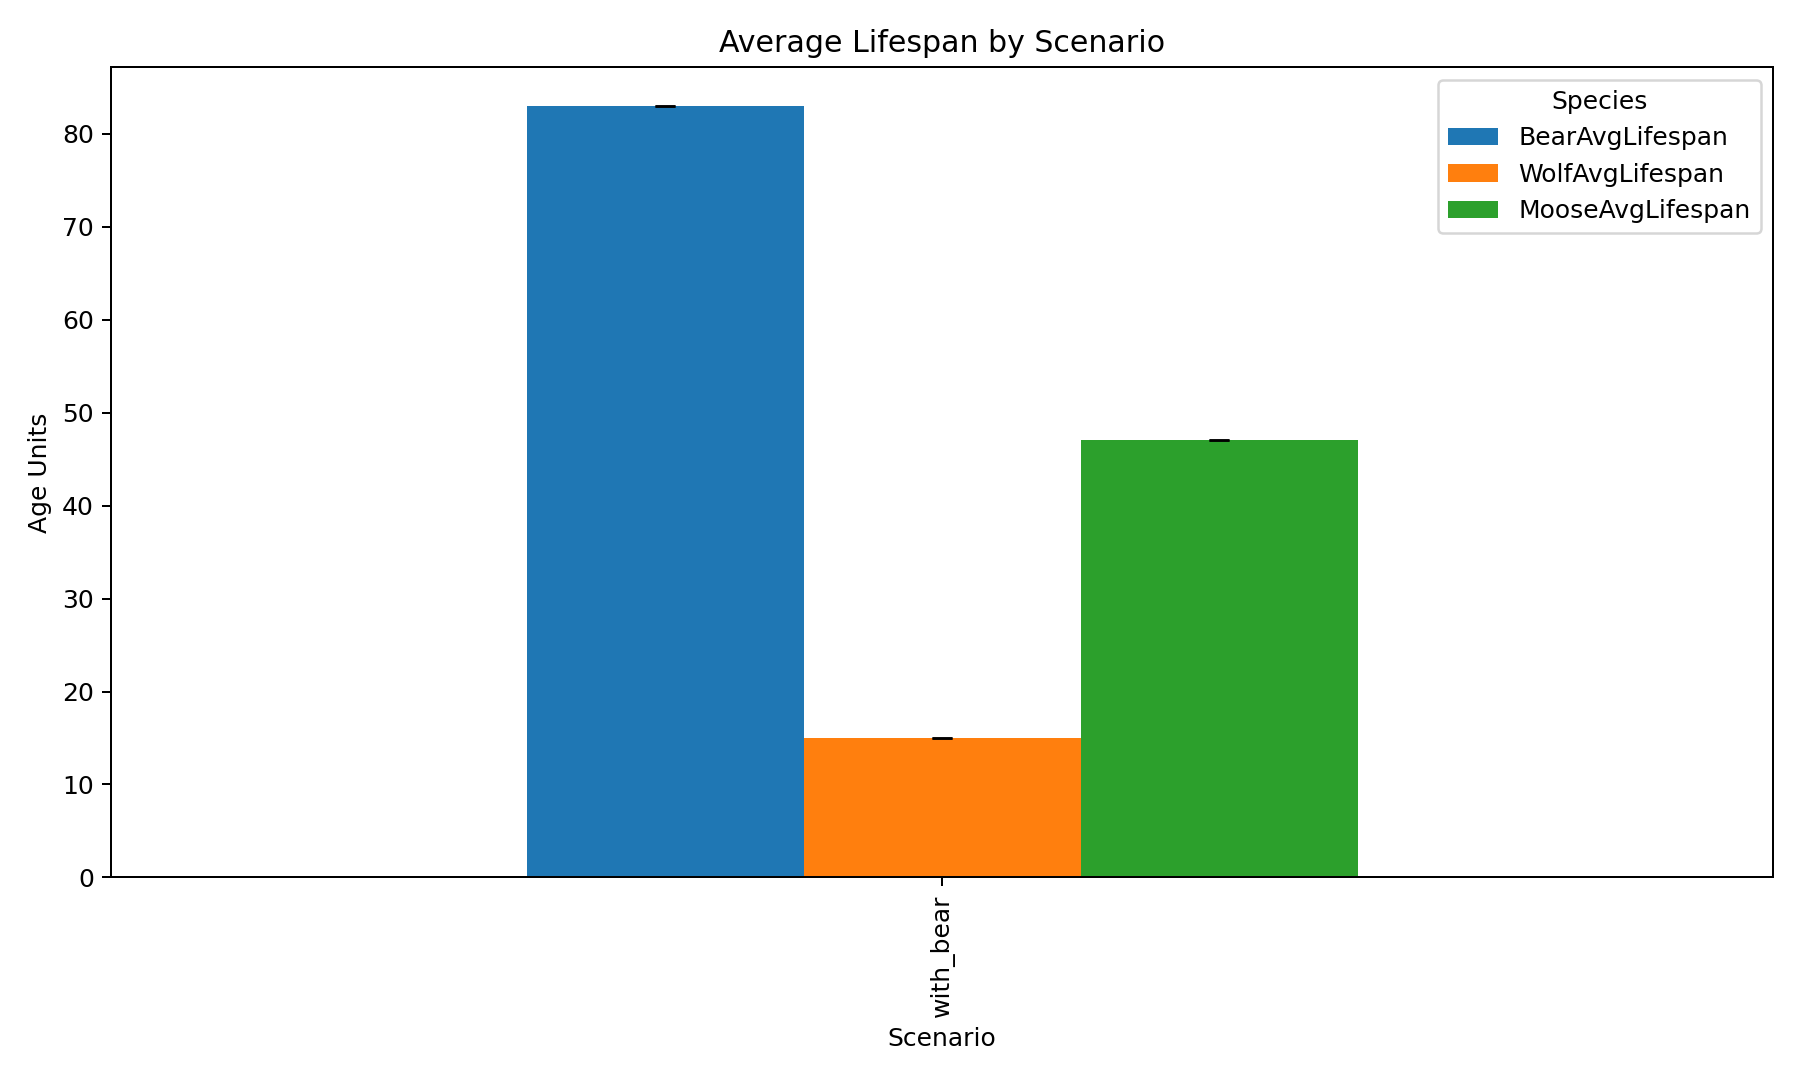
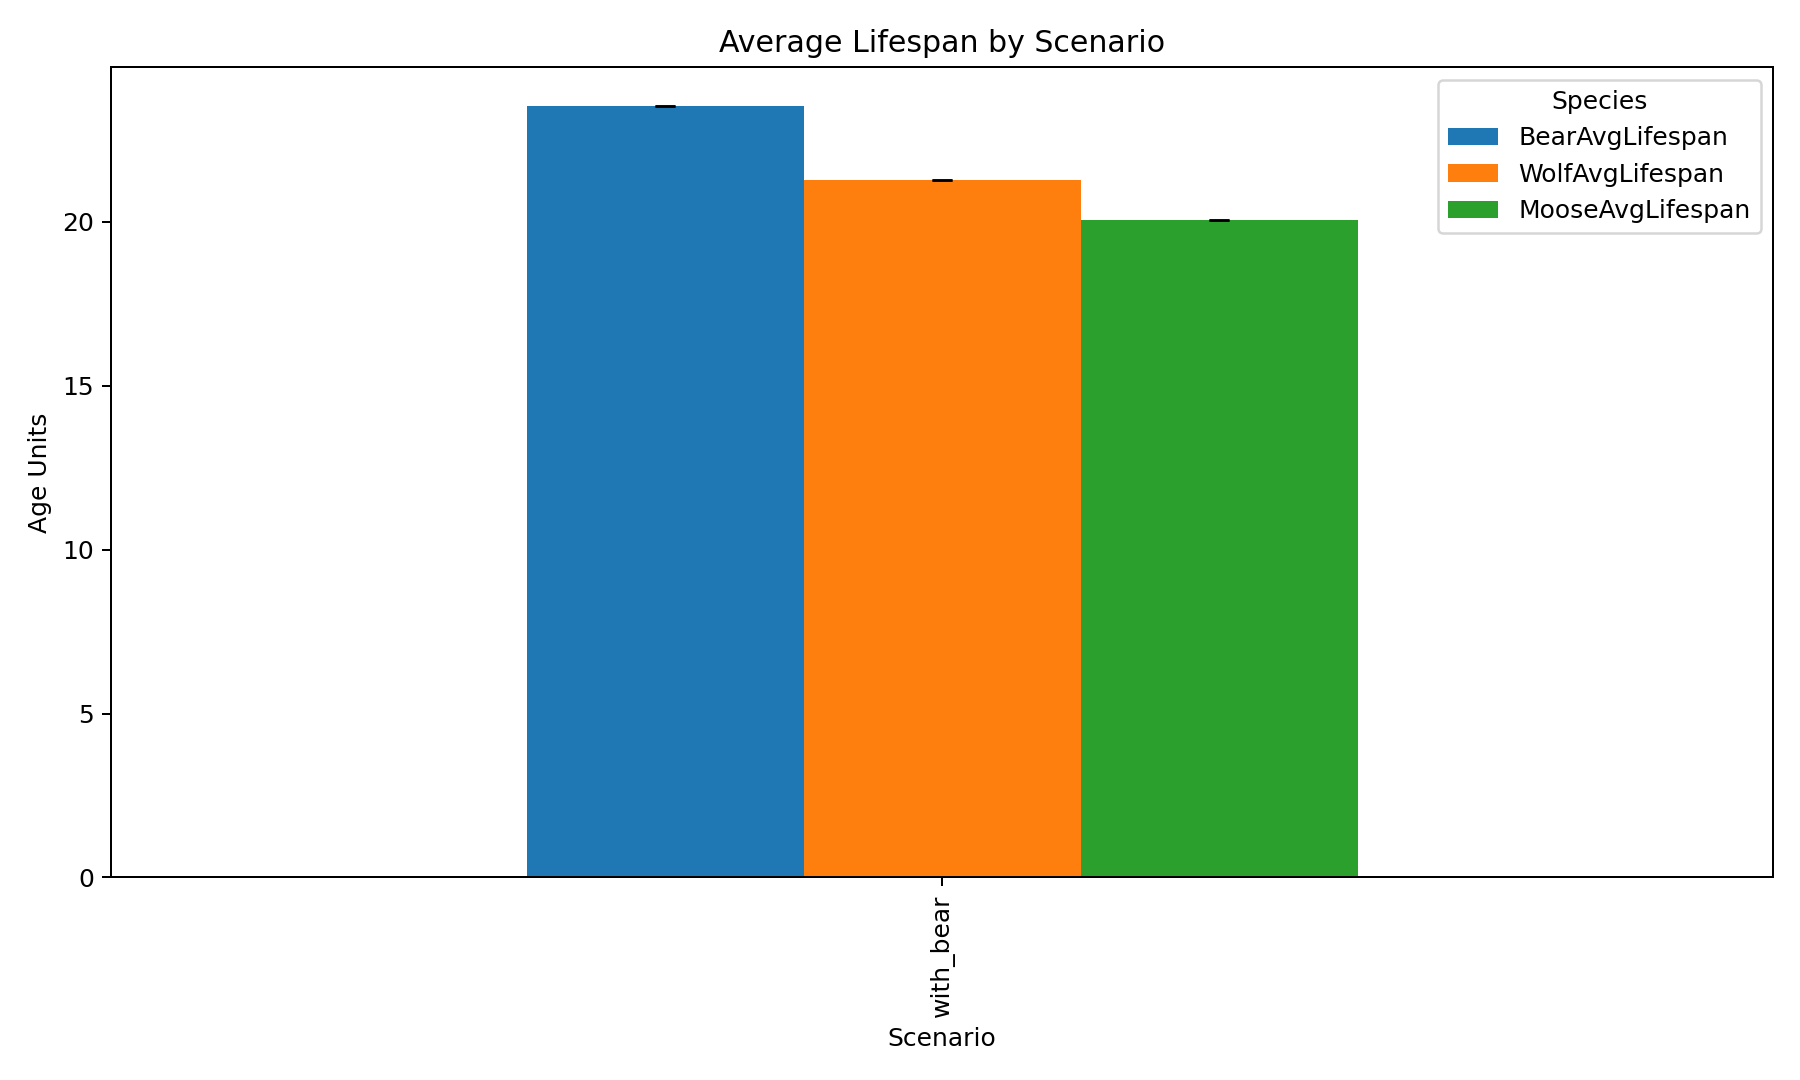
More graphs
Added more graphs, but its just a test look for them, we need to make them much better

diff --git a/Analysis/export_csv.py b/Analysis/export_csv.py
@@ -205,13 +205,150 @@ def plot_lifespan(data: pd.DataFrame, output_dir: Path) -> None:
 	plt.close()
 
 
+def plot_births(data: pd.DataFrame, output_dir: Path) -> None:
+	cols = ["BearBirths", "WolfBirths", "MooseBirths"]
+	cols = [c for c in cols if c in data.columns]
+	if not cols:
+		return
+
+	grouped = data.groupby("scenario")[cols]
+	means = grouped.mean()
+	stds = grouped.std().fillna(0)
+
+	ax = means.plot(kind="bar", yerr=stds, capsize=4, figsize=(10, 6))
+	ax.set_title("Births by Scenario")
+	ax.set_ylabel("Count")
+	ax.set_xlabel("Scenario")
+	ax.legend(title="Species")
+	ax.set_xticklabels(ax.get_xticklabels(), rotation=0, ha="center")
+	plt.tight_layout()
+	plt.savefig(output_dir / "plot_births.png", dpi=180)
+	plt.close()
+
+
+def plot_starvation(data: pd.DataFrame, output_dir: Path) -> None:
+	cols = ["BearStarvation", "WolfStarvation", "MooseStarvation"]
+	cols = [c for c in cols if c in data.columns]
+	if not cols:
+		return
+
+	grouped = data.groupby("scenario")[cols]
+	means = grouped.mean()
+	stds = grouped.std().fillna(0)
+
+	ax = means.plot(kind="bar", yerr=stds, capsize=4, figsize=(10, 6))
+	ax.set_title("Deaths by Starvation by Scenario")
+	ax.set_ylabel("Count")
+	ax.set_xlabel("Scenario")
+	ax.legend(title="Species")
+	ax.set_xticklabels(ax.get_xticklabels(), rotation=0, ha="center")
+	plt.tight_layout()
+	plt.savefig(output_dir / "plot_starvation.png", dpi=180)
+	plt.close()
+
+
+def plot_predation(data: pd.DataFrame, output_dir: Path) -> None:
+	cols = ["BearPredation", "WolfPredation", "MoosePredation"]
+	cols = [c for c in cols if c in data.columns]
+	if not cols:
+		return
+
+	grouped = data.groupby("scenario")[cols]
+	means = grouped.mean()
+	stds = grouped.std().fillna(0)
+
+	ax = means.plot(kind="bar", yerr=stds, capsize=4, figsize=(10, 6))
+	ax.set_title("Deaths by Predation by Scenario")
+	ax.set_ylabel("Count")
+	ax.set_xlabel("Scenario")
+	ax.legend(title="Species")
+	ax.set_xticklabels(ax.get_xticklabels(), rotation=0, ha="center")
+	plt.tight_layout()
+	plt.savefig(output_dir / "plot_predation.png", dpi=180)
+	plt.close()
+
+
+def plot_feeding(data: pd.DataFrame, output_dir: Path) -> None:
+	cols = ["BearPlantMeals", "BearAnimalPrey", "MoosePlantMeals", "WolfCarcass"]
+	cols = [c for c in cols if c in data.columns]
+	if not cols:
+		return
+
+	grouped = data.groupby("scenario")[cols]
+	means = grouped.mean()
+	stds = grouped.std().fillna(0)
+
+	ax = means.plot(kind="bar", yerr=stds, capsize=4, figsize=(10, 6))
+	ax.set_title("Feeding by Scenario")
+	ax.set_ylabel("Count")
+	ax.set_xlabel("Scenario")
+	ax.legend(title="Food source")
+	ax.set_xticklabels(ax.get_xticklabels(), rotation=0, ha="center")
+	plt.tight_layout()
+	plt.savefig(output_dir / "plot_feeding.png", dpi=180)
+	plt.close()
+
+
+def plot_pack_behavior(data: pd.DataFrame, output_dir: Path) -> None:
+	cols = ["PacksFormed", "PackHuntAttempts", "PackHuntSuccess"]
+	cols = [c for c in cols if c in data.columns]
+	if not cols:
+		return
+
+	grouped = data.groupby("scenario")[cols]
+	means = grouped.mean()
+	stds = grouped.std().fillna(0)
+
+	ax = means.plot(kind="bar", yerr=stds, capsize=4, figsize=(10, 6))
+	ax.set_title("Pack Behavior by Scenario")
+	ax.set_ylabel("Count")
+	ax.set_xlabel("Scenario")
+	ax.legend(title="Metric")
+	ax.set_xticklabels(ax.get_xticklabels(), rotation=0, ha="center")
+	plt.tight_layout()
+	plt.savefig(output_dir / "plot_pack_behavior.png", dpi=180)
+	plt.close()
+
+
+def plot_avg_needs(data: pd.DataFrame, output_dir: Path) -> None:
+	cols = [
+		"BearAvgHunger", "BearAvgThirst", "BearAvgStamina",
+		"WolfAvgHunger", "WolfAvgThirst", "WolfAvgStamina",
+		"MooseAvgHunger", "MooseAvgThirst", "MooseAvgStamina",
+	]
+	cols = [c for c in cols if c in data.columns]
+	if not cols:
+		return
+
+	grouped = data.groupby("scenario")[cols]
+	means = grouped.mean()
+	stds = grouped.std().fillna(0)
+
+	ax = means.plot(kind="bar", yerr=stds, capsize=4, figsize=(14, 6))
+	ax.set_title("Average Needs at End of Simulation by Scenario (%)")
+	ax.set_ylabel("Value (%)")
+	ax.set_xlabel("Scenario")
+	ax.legend(title="Metric", bbox_to_anchor=(1.01, 1), loc="upper left")
+	ax.set_xticklabels(ax.get_xticklabels(), rotation=0, ha="center")
+	plt.tight_layout()
+	plt.savefig(output_dir / "plot_avg_needs.png", dpi=180)
+	plt.close()
+
+
 def main() -> None:
 	args = parse_args()
 	files = find_csv_files(args.input, args.pattern)
 	data = load_runs(files, infer_scenario=args.scenario_from_filename)
 	summarize(data, args.output)
 	plot_population(data, args.output)
+	plot_births(data, args.output)
 	plot_deaths(data, args.output)
+	plot_starvation(data, args.output)
+	plot_predation(data, args.output)
+	plot_feeding(data, args.output)
+	plot_pack_behavior(data, args.output)
+	plot_avg_needs(data, args.output)
+	plot_lifespan(data, args.output)
 
 	print(f"Saved summary + plots to: {args.output.resolve()}")
 